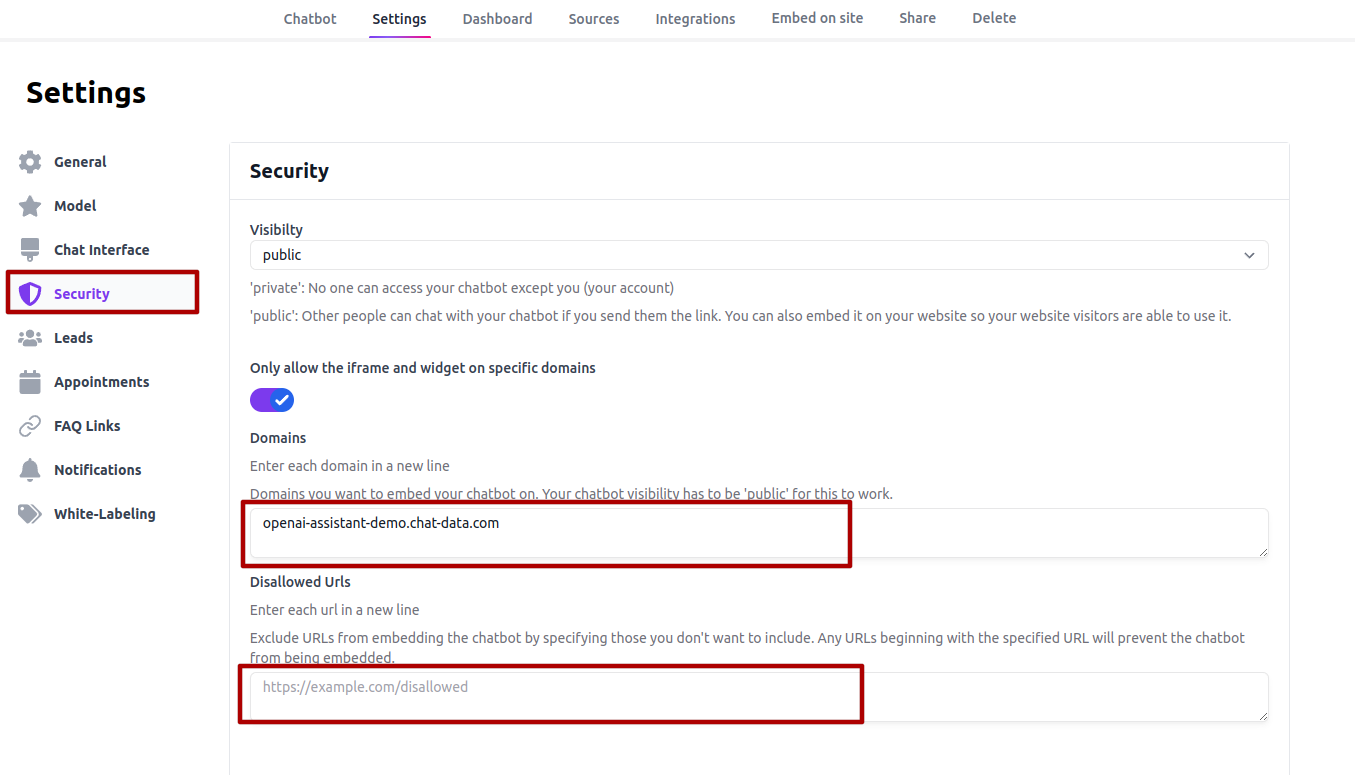
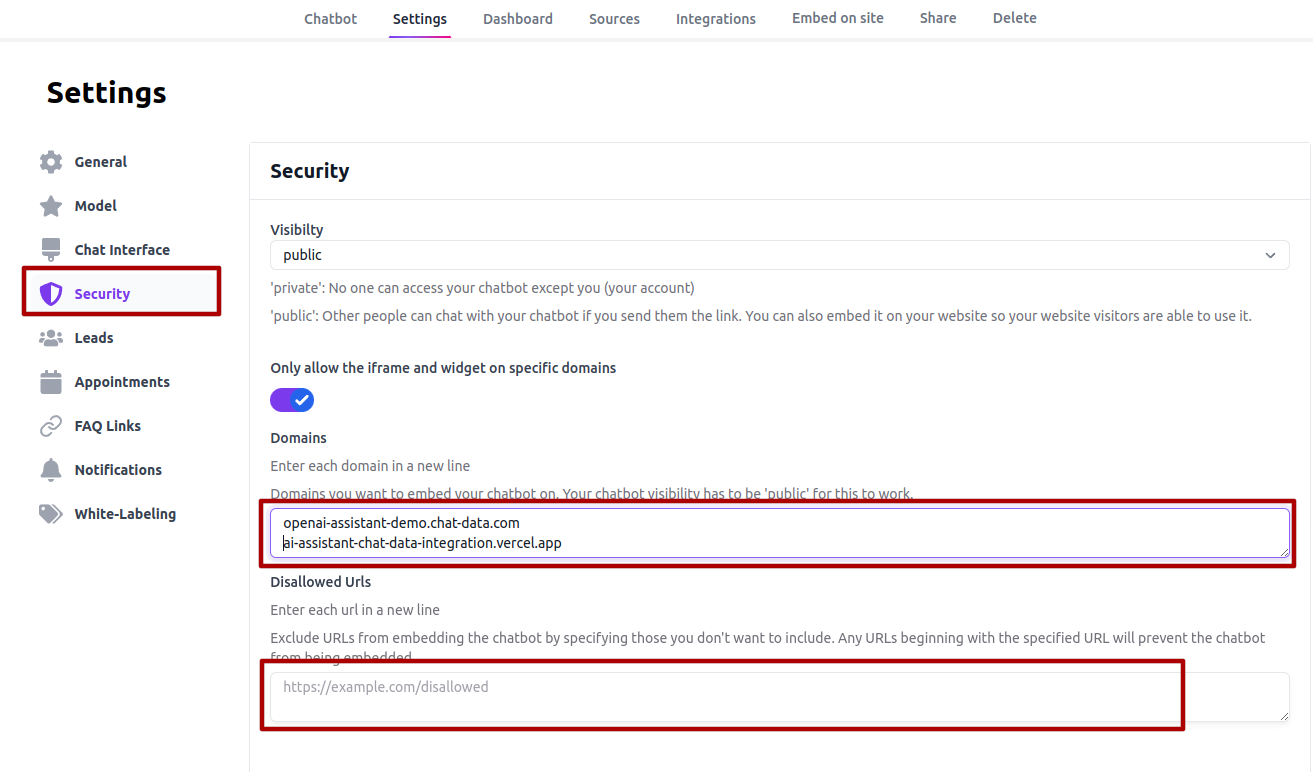
add vercel deployment

diff --git a/src/pages/api/chat.js b/src/pages/api/chat.js
@@ -32,7 +32,7 @@ const validateApiKey = (req, res) => {
 export default async function handler(req, res) {
     // Check if the request method is POST
     if (req.method === 'POST') {
-        // validateApiKey(req, res);
+        validateApiKey(req, res);
         // Process a POST request
         const { messages, stream } = req.body; // Assuming the body contains a "message" field
         try {

diff --git a/README.md b/README.md
@@ -7,7 +7,12 @@ To streamline this integration process, our repository presents a low-code solut
 
 # Demo Page
 
-Experience our solution firsthand at the demo page:[https://openai-assistant-demo.chat-data.com/](https://openai-assistant-demo.chat-data.com/)
+Experience our solution firsthand at the demo page:
+
+[https://openai-assistant-demo.chat-data.com/](https://openai-assistant-demo.chat-data.com/)
+
+[https://ai-assistant-chat-data-integration.vercel.app/](https://ai-assistant-chat-data-integration.vercel.app/)
+
 ![Demo page](./public/ai-assistant-chat-data-integration.png)
 
 # Path
@@ -124,12 +129,35 @@ This step is optional if you intend to integrate the Assistant API solely with y
 
 ### 8. Deploy your code.
 
-For production deployment, transfer the code to a Virtual Private Server (VPS). Execute the following commands in the root directory of your local repository:
+For production deployment, transfer the code to a Virtual Private Server (VPS) or deploy in [vercel](https://vercel.com/). 
+
+#### VPS deployment
+
+In VPS, Execute the following commands in the root directory of your local repository:
 
 ```bash
 npm run build & npm run start
 ```
-Using Docker for deployment is recommended when operating on a VPS. Please note, deploying on Vercel's free plan is not advised due to a 10-second timeout limit, which may not accommodate the Assistant API's response times.
+Using Docker for deployment is recommended when operating on a VPS. 
+#### Vercel deployment
+
+- Click import your project:
+
+![Vercel Import](./public/vercel_project_import.png)
+
+- Add Environment Variables:
+
+![Env Variables](./public/vercel_env_variables.png)
+ 
+- Get your deployed page with domain name:
+
+![Vercel Deployment](./public/vercel_deployment_domain.png)
+
+- Whitelist your Vercel domain:
+
+![Domain Whitelist](./public/chatbot_domain_whitelist.png)
+
+- Done. You should get something exactly the same as the demo: [https://ai-assistant-chat-data-integration.vercel.app](https://ai-assistant-chat-data-integration.vercel.app)
 
 ## Conclusion
 
